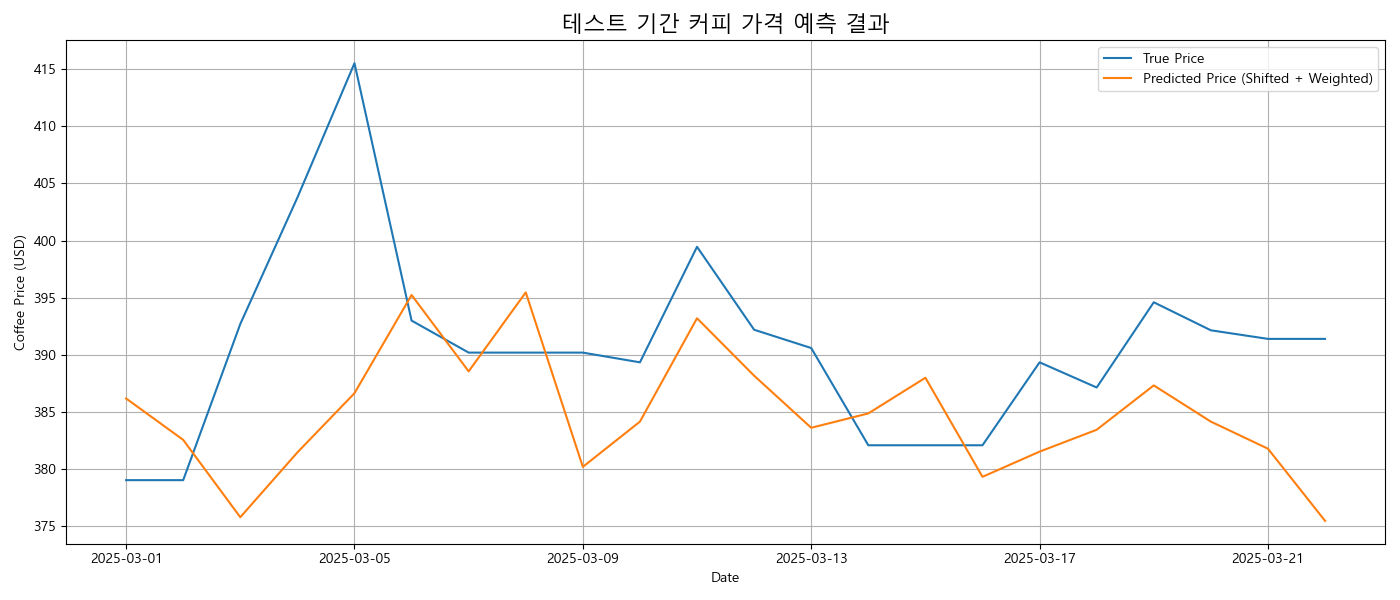
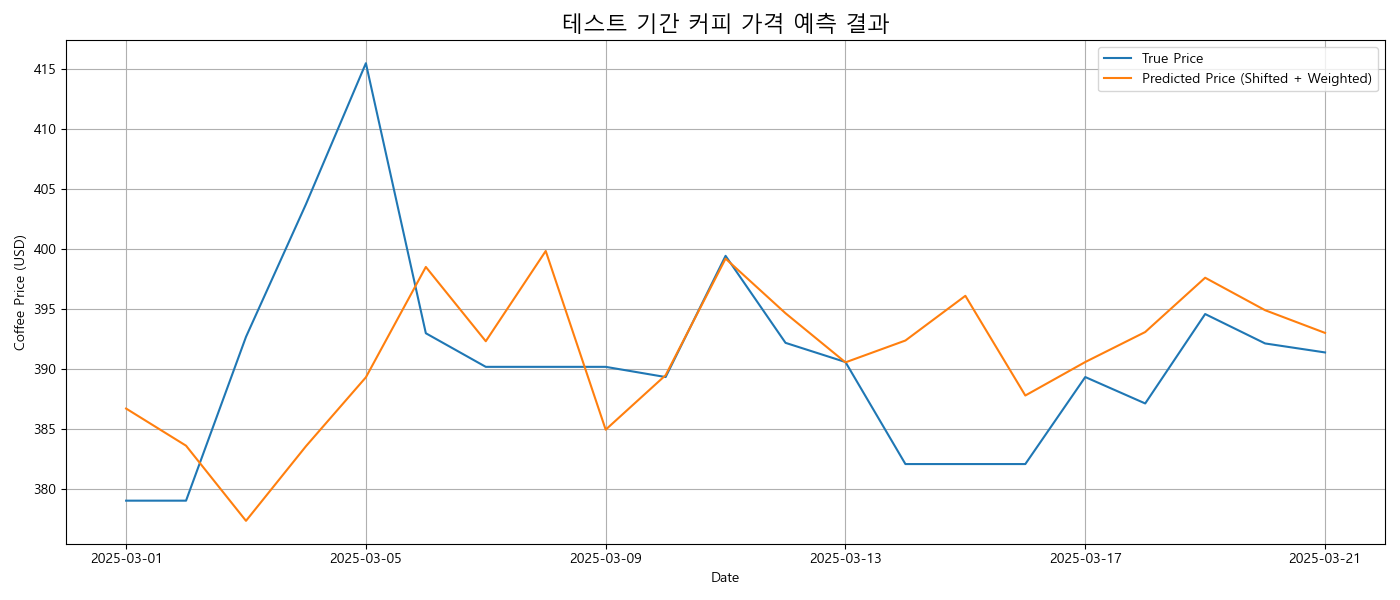
feat: rf model

diff --git a/src/models/rf_price_v1.1.1.py b/src/models/rf_price_v1.1.1.py
@@ -77,9 +77,10 @@ pred_daily = valid_data.groupby("Date")["Predicted_Price"].mean().reset_index()
 pred_daily["Date"] = pd.to_datetime(pred_daily["Date"])
 pred_daily = pd.merge(pred_daily, valid_label, on="Date", how="left")
 
-# 9-1. 일별 가중치 적용 (1.0 → 1.1 선형 증가)
-valid_weights = np.linspace(1.0, 2.0, len(pred_daily))
+# 9-1. 일별 가중치 적용 (예측값에 대해 pred_daily 기간 동안 1.0에서 2.0까지 선형적으로 증가하는 가중치 부여)
+valid_weights = np.linspace(1.0, 1.655, len(pred_daily))
 pred_daily["Predicted_Price_Weighted"] = pred_daily["Predicted_Price"] * valid_weights
+
 
 # 시작 가격 맞추기 (valid)
 true_start_valid = pred_daily["Coffee_Price"].iloc[0]
@@ -116,9 +117,13 @@ test_daily = test_data.groupby("Date")["Predicted_Price"].mean().reset_index()
 test_daily["Date"] = pd.to_datetime(test_daily["Date"])
 test_daily = pd.merge(test_daily, test_label, on="Date", how="left")
 
-# 12-1. 가중치 적용 안함 test 기간은 짧아서
-test_weights = np.linspace(1.0, 1.1, len(test_daily))
-test_daily["Predicted_Price_Weighted"] = test_daily["Predicted_Price"]
+# 12-1. 가중치 적용 
+# 1년 동안 1.655배 상승하는 가중치 증가 비율
+rate = (1.655 / 1) ** (1 / 365)
+
+# test 기간에 맞춰 가중치 적용
+test_weights = np.array([rate ** i for i in range(len(test_daily))])
+test_daily["Predicted_Price_Weighted"] = test_daily["Predicted_Price"] * test_weights
 
 # 시작 가격 보정 (test)
 true_start_test = test_daily["Coffee_Price"].iloc[0]
@@ -130,8 +135,9 @@ test_daily["Predicted_Price_Adjusted"] = test_daily["Predicted_Price_Weighted"] 
 test_daily["Predicted_Price_Adjusted_Shifted"] = test_daily["Predicted_Price_Adjusted"].shift(-1)
 
 # 13. test 성능
-rmse_test = mean_squared_error(test_daily["Coffee_Price"], test_daily["Predicted_Price_Adjusted"])
-r2_test = r2_score(test_daily["Coffee_Price"], test_daily["Predicted_Price_Adjusted"])
+test_daily = test_daily.dropna(subset=["Predicted_Price_Adjusted_Shifted", "Coffee_Price"])
+rmse_test = mean_squared_error(test_daily["Coffee_Price"], test_daily["Predicted_Price_Adjusted_Shifted"])
+r2_test = r2_score(test_daily["Coffee_Price"], test_daily["Predicted_Price_Adjusted_Shifted"])
 print("\n📊 테스트 성능 (보정 + 가중치):")
 print(f"Test RMSE : {rmse_test:.5f}")
 print(f"Test R²   : {r2_test:.5f}")

diff --git a/src/models/rf_price_v1.1.0.py b/src/models/rf_price_v1.1.0.py
@@ -84,7 +84,7 @@ scaling_valid = true_start_valid / pred_start_valid
 pred_daily["Predicted_Price_Adjusted"] = pred_daily["Predicted_Price"] * scaling_valid
 
 # 시간 기반 가중치 적용 (valid)
-weight_growth_rate = 1.1
+weight_growth_rate = 0.655
 weights_valid = 1 + np.linspace(0, weight_growth_rate, len(pred_daily))
 pred_daily["Predicted_Price_Weighted"] = pred_daily["Predicted_Price_Adjusted"] * weights_valid
 
@@ -124,8 +124,9 @@ scaling_test = true_start_test / raw_start_test
 test_daily["Predicted_Price_Adjusted"] = test_daily["Predicted_Price"] * scaling_test
 
 # 시간 기반 가중치 적용 (test)
-weights_test = 1 # 테스트는 기간 짧고, 어차피 첫 가격은 시작날로 고정되어 있으니 가중치 필요없음
-test_daily["Predicted_Price_Weighted"] = test_daily["Predicted_Price_Adjusted"] * weights_test
+rate = (1.655 / 1) ** (1 / 365)
+test_weights = np.array([rate ** i for i in range(len(test_daily))])
+test_daily["Predicted_Price_Weighted"] = test_daily["Predicted_Price_Adjusted"] * test_weights
 
 # 성능 평가 (test)
 rmse_test = mean_squared_error(test_daily["Coffee_Price"], test_daily["Predicted_Price_Weighted"])

diff --git a/src/models/README.md b/src/models/README.md
@@ -11,12 +11,12 @@
 
 ### RandomForest - Target: `Coffee_Price`
 
-| 모델 버전       | 설명                                                                                                                                                                                                                                      |
-| --------------- | ----------------------------------------------------------------------------------------------------------------------------------------------------------------------------------------------------------------------------------------- |
-| rf_price_v1.0.0 | 범주형 변수에 OneHotEncoding을 적용한 후 커피 가격 자체를 예측. 커피 가격은 장기적으로 상승 추세를 보이나, RandomForest는 평균 회귀 경향이 강해 낮은 가격대 중심으로 예측됨. 따라서 테스트 구간에서는 첫날 실제 가격으로 예측값을 보정함. |
-| rf_price_v1.0.1 | `v1.0.0` 구조를 참고하여, 예측값을 하루 늦게 예측하는 경향을 반영. test 예측 결과를 하루 shift하여 실제 시점과 맞추는 방식으로 시계열 예측 오차를 보완함.                                                                                 |
-| rf_price_v1.1.0 | `v1.0.0` 구조 기반에 선형적으로 증가하는 일별 가중치를 도입하여, 시간이 지날수록 상승하는 커피 가격 경향을 반영함.                                                                                                                        |
-| rf_price_v1.1.1 | `v1.0.1` 구조에 선형 가중치를 결합한 확장 버전. 시간 흐름에 따른 상승 가중치를 적용하고, 테스트 구간에서는 하루 shift 방식으로 시계열 오차를 함께 보정함.                                                                                 |
+| 모델 버전       | 설명                                                                                                                                                                                                                                                              |
+| --------------- | ----------------------------------------------------------------------------------------------------------------------------------------------------------------------------------------------------------------------------------------------------------------- |
+| rf_price_v1.0.0 | 범주형 변수에 OneHotEncoding을 적용한 후 커피 가격 자체를 예측. 커피 가격은 장기적으로 상승 추세를 보이나, RandomForest는 평균 회귀 경향이 강해 낮은 가격대 중심으로 예측됨. 따라서 테스트 구간에서는 첫날 실제 가격으로 예측값을 보정함.                         |
+| rf_price_v1.0.1 | `v1.0.0` 구조를 참고하여, 예측값을 하루 늦게 예측하는 경향을 반영. test 예측 결과를 하루 shift하여 실제 시점과 맞추는 방식으로 시계열 예측 오차를 보완함.                                                                                                         |
+| rf_price_v1.1.0 | `v1.0.0` 구조 기반에 선형적으로 증가하는 일별 가중치를 도입하여, 시간이 지날수록 상승하는 커피 가격 경향을 반영함. 가중치는 1년 동안 평균 증가율로 하려고 하였지만 큰 변화가 없어 급격한 변화를 감지할 수 없었음. 따라서 **`Max / Min`의 평균을 가중치**로 두었음 |
+| rf_price_v1.1.1 | `v1.0.1` 구조에 선형 가중치를 결합한 확장 버전. 시간 흐름에 따른 상승 가중치(`Max / Min`의 평균)를 적용하고, 테스트 구간에서는 하루 shift 방식으로 시계열 오차를 함께 보정함.                                                                                     |
 
 ---
 
@@ -28,22 +28,30 @@
 
 ```
 📊 검증 성능 (보정 + 가중치):
-RMSE : 863.64066
-R² : 0.74925
+RMSE : 1081.44309
+R²   : 0.68602
 ```
 
 ![rf_price_v1.1.1_test](./output/rf_price_v1.1.1_valid.png)
 
 가중치 덕분에 전체적인 흐름은 잘 반영되지만, 급격한 가격 변화에는 민감하게 반응하지 못한다.
 
+RMSE는 1081.44로, 예측값이 실제값에서 평균적으로 약 1081.44만큼 차이가 나고 있다. 이는 급격한 변화를 전부 놓친 결과이다. 급격한 변화는 시간이 흐를 수록 더 많이 놓친다.
+
+R²는 0.68602로, 전체 데이터에서 모델이 약 68.6% 정도의 분산을 설명할 수 있다는 의미이다. 이는 좋은 예측 성능을 나타내며, 데이터의 흐름을 잘 따르고 있다는 평가를 할 수 있다.
+
 **test 결과:**
 
 ```
 📊 테스트 성능 (보정 + 가중치):
-Test RMSE : 140.58717
-Test R²   : -1.30603
+Test RMSE : 89.93720
+Test R²   : -0.41143
 ```
 
 ![rf_price_v1.1.1_test](./output/rf_price_v1.1.1_test.png)
 
 테스트 기간인 약 2주 동안도 전체적인 흐름은 잘 따라가지만, 급격한 변화에 대한 반응은 여전히 제한적이다.
+
+RMSE는 89.94로, 테스트 데이터에서 예측값이 실제값과 비교하여 평균적으로 약 89.94만큼 차이가 발생함을 보여준다. 예측 정확도는 이전보다 개선되었으나, 여전히 오차가 존재한다.
+
+R²는 -0.41143로, 이 값은 모델이 실제 데이터의 변동을 설명하지 못하고 있다는 것을 의미한다. 이는 모델이 급격한 가격 변동을 예측하기 어려워하고 있다는 신호일 수 있다.
